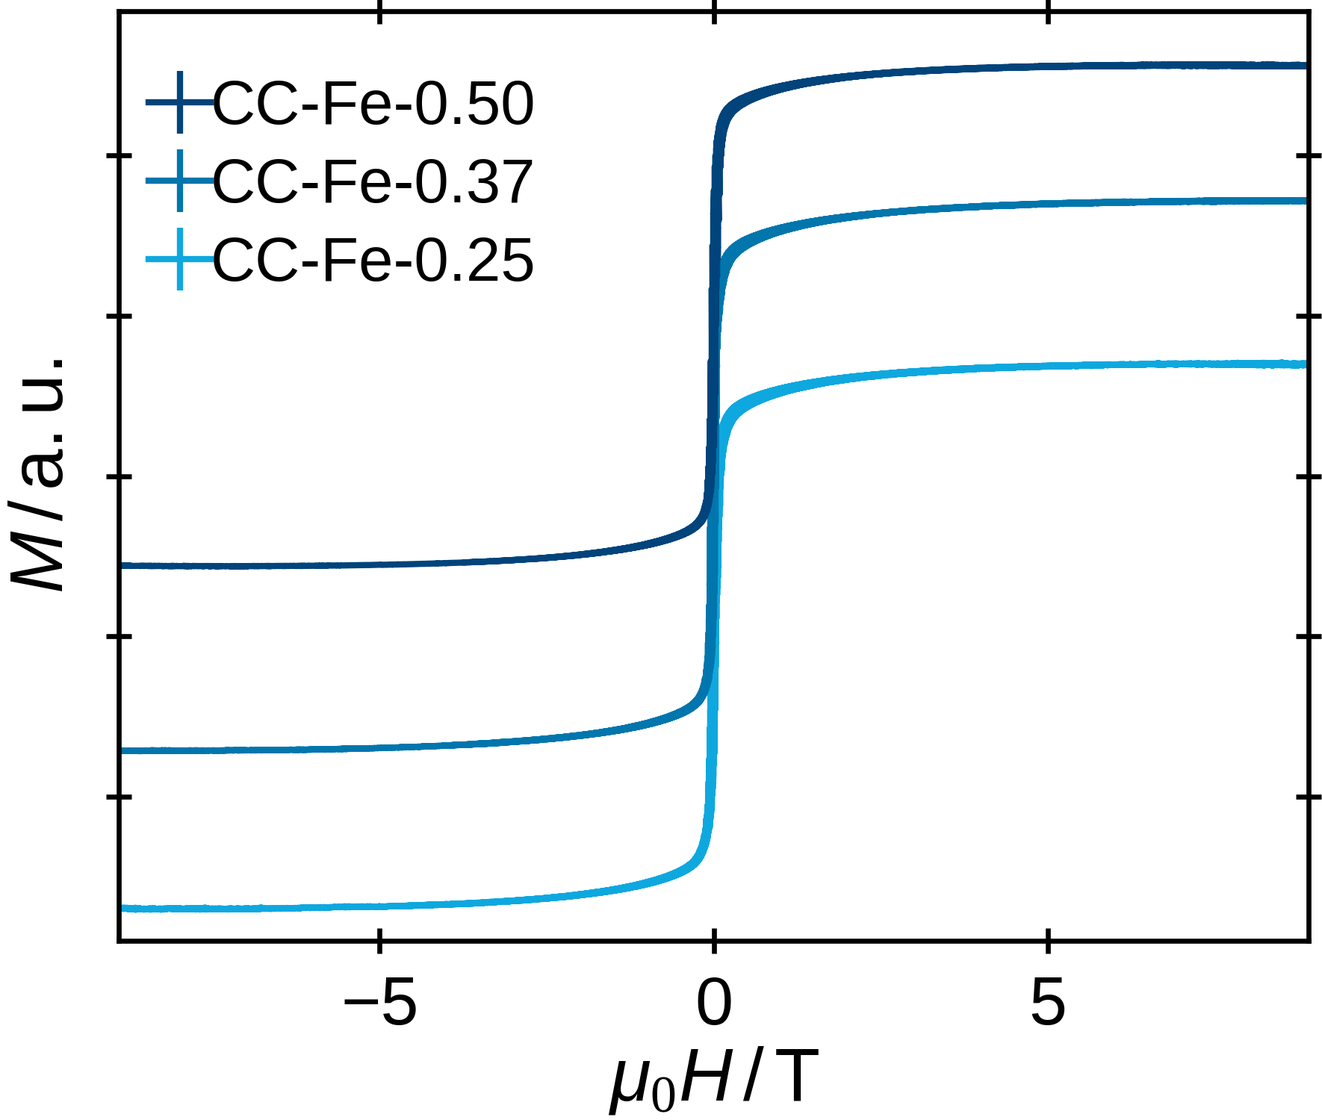
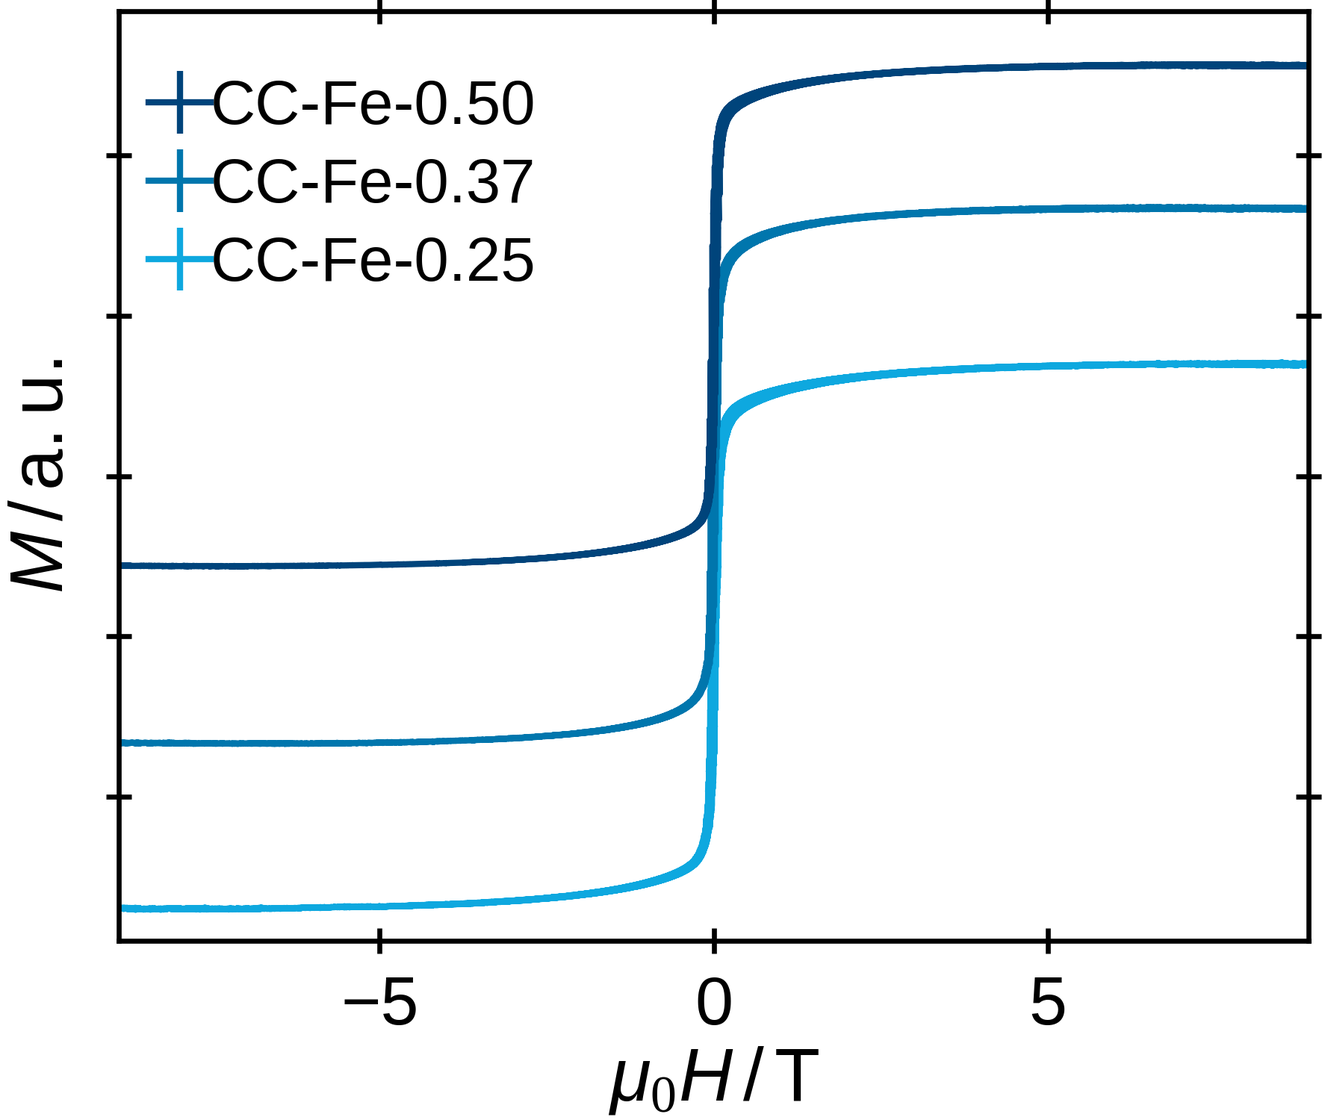
Bisschen mehr zu CC

Changed region(s): [[0.6215, 0.1533, 0.9944, 0.2147], [0.0932, 0.644, 0.4661, 0.6747], [0.4972, 0.6133, 0.5282, 0.644]]

diff --git a/chapters/colloidalCrystals/colloidalCrystals/pnr/pnr.tex b/chapters/colloidalCrystals/colloidalCrystals/pnr/pnr.tex
@@ -11,7 +11,7 @@
   \end{figure}
 
   To study the magnetic structure of the colloidal crystals, polarized neutron reflectivity was measured at the MARIA instrument at MLZ (\refsec{ch:lss:maria}).
-  For each sample a and measurement a reflectivity map is obtained for $R^{+}$ and $R^{-}$, which is exemplary shown for the measurement obtained in remanence after field-cooling CC-Fe-0.37 to $10 \unit{K}$ at $1.08\unit{T}$ and measuring at the guide field of $0.9 \unit{mT}$ in \reffig{fig:colloidalCrystals:pnrRemanenceMaps}.
+  For each sample and measurement a reflectivity map is obtained for $R^{+}$ and $R^{-}$, which is exemplary shown for the measurement obtained in remanence after field-cooling CC-Fe-0.37 to $10 \unit{K}$ at $1.08\unit{T}$ and measuring at the guide field of $0.9 \unit{mT}$ in \reffig{fig:colloidalCrystals:pnrRemanenceMaps}.
   The reflectivity map are similar in nature to the ones obtained for XRR in \refsec{sec:colloidalCrystals:layers:xrr} and all show as main feature the specular line with high intensity and an additional Bragg sheets in the off-specular region around $\alpha_i + \alpha_o \eq 2.2^\circ$.
   In the case of the remanent measurement after field cooling, a difference in intensity is already visible in the reflectivity map, where the reflectivity is more intense in the $R^{+}$ than in the $R^{-}$ case, which follows from the magnetized state of the sample.
 
@@ -24,11 +24,20 @@
 
   The reduced reflectivities, extracted from each intensity map, are shown for CC-Fe-0.37 in \reffig{fig:colloidalCrystals:pnrCCFe37} for the measurements performed after zero-field cooling and field-cooling.
   In the saturated state both the zero-field cooled and the field cooled measurement show a visible splitting of the two channels due to the magnetization of the sample.
-  At remanence, this is still clearly visible for the field cooled case, as was also apparent in the reflectivity map, but it less pronounced in the zero-field cooled reflectivity at remanence.
+  At remanence, this is still clearly visible for the field cooled case, as was also apparent in the reflectivity map, but is less pronounced in the zero-field cooled reflectivity at remanence.
   The same tendential behaviour is observable in the case of the sample CC-Fe-0.25 and for CC-Fe-0.50 in \reffig{fig:colloidalCrystals:pnrCCFe2550}.
-  It is visible in the reflectivity of CC-Fe-0.50 that analogue to it's XRR measurement in \refsec{sec:colloidalCrystals:layers:xrr} the critical edge is less well-defined for this sample in comparison to CC-Fe-0.25 and CC-Fe-0.37.
+
+  It is visible in the reflectivity of CC-Fe-0.50 that analogue to it's XRR measurement in \refsec{sec:colloidalCrystals:layers:xrr} the critical edge reduced to a lower scattering angle for this sample in comparison to CC-Fe-0.25 and CC-Fe-0.37.
   Observing this in the case of the X-ray experiment and neutron experiment reinforces that this observation is a feature from the sample and not possibly an artifact from a malfunction during the measurement procedure.
   It is connected to the large thickness of the sample, and suggests a lower average scattering length density in comparison to the silicon layer, as the magnitude of the critical edge is directly proportional to the scattering length density.
+
+  The correlation peak around $0.5 \unit{nm^{-1}}$ and $1 \unit{nm^{-1}}$ in each measurement corresponds with $2 \pi / \Delta q \approx 12.6 \unit{nm}$ to the length scale of the nanocube size.
+  Additional features from the layered structure or the total sample thickness, by the means of Kiessig fringes, are not visible within the datasets, which reinforces the assumption that still the samples are too rough on the surface.
+  A detailed modeling of the scattering length density profile has not been performed within the scope of this thesis and might be considered as highly ambiguous due to the low number of features in the reflectivity but the complex three-dimensional structure of the samples.
+
+  Qualitatively it is visible that a splitting remains in the remanent state, which is stronger for the field cooled case in direct comparison to the zero-field cooled case.
+  This connect to the comparison of the hysteresis curve of the samples after zero-field and field cooling in \refsec{sec:colloidalCrystals:vsm}, where an exchange bias effect is visible that is argued to be a property of the core-shell nanocubes.
+  Signatures for emergent dipolar interaction effects from the qualitative comparison of the three samples are not directly observable from the obtained polarized neutron reflectometry data.
 
 
   \begin{figure}[tb]

diff --git a/chapters/colloidalCrystals/colloidalCrystals/vsm/vsm.tex b/chapters/colloidalCrystals/colloidalCrystals/vsm/vsm.tex
@@ -25,7 +25,7 @@
         & $\bar{\chi} \, / \unit{memu \, T ^{-1} g^{-1}}$ \\
         \hline
         \rule{0pt}{2ex} CC-Fe-0.25    & $1.8480(4)$   & $-16.18(6)$ & $60.25(1)$  & $-0.528(2)$\\
-        \rule{0pt}{2ex} CC-Fe-0.37    & $1.4770(3)$   & $-8.06(4)$  & $84.35(2)$  & $-0.460(2)$\\
+        \rule{0pt}{2ex} CC-Fe-0.37    & $1.5599(5)$   & $-5.46(7)$  & $89.09(3)$  & $-0.312(4)$\\
         \rule{0pt}{2ex} CC-Fe-0.50    & $4.4333(7)$   & $6.68(9)$   & $126.30(2)$ & $0.190(3)$\\
         \hline
       \end{tabular}
@@ -78,15 +78,14 @@
     \begin{figure}[tb]
       \centering
       \includegraphics{colloidalCrystals_PPMS_10K_allSamples}
-      % \includegraphics{colloidalCrystals_PPMS_10K_allSamplesShifted}
-      \caption{\label{fig:colloidalCrystals:10KVSM}Low temperature field-dependent magnetization of the colloidal crystals measured at $10 \unit{K}$. CC-Fe-0.25 and CC-Fe-0.50 are measured after zero-field cooling and CC-Fe-0.37 after cooling in a $10 \unit{mT}$ field.}
+      \includegraphics{colloidalCrystals_PPMS_10K_CC-Fe-0-37_EB}
+      \caption{\label{fig:colloidalCrystals:10KVSM}Low temperature field-dependent magnetization of the colloidal crystals measured at $10 \unit{K}$. The colloidal crystals are all measured after zero-field cooling (left). Furthermore, the effect of field cooling the sample in a strong magnetic field of $4 \unit{T}$ on the hysteresis is shown for CC-Fe-0.37 (right).}
     \end{figure}
-    The samples CC-Fe-0.25 and CC-Fe-0.50 were both measured field-dependent at $10 \unit{K}$ after zero-field cooling. The data is rescaled as determined by the room temperature measurement and shown in \reffig{fig:colloidalCrystals:10KVSM}.
+    The samples CC-Fe-0.25, CC-Fe-0.37 and CC-Fe-0.50 were both measured field-dependent at $10 \unit{K}$ after zero-field cooling. The data is rescaled as determined by the room temperature measurement and shown in \reffig{fig:colloidalCrystals:10KVSM}.
     It can be seen that at low magnetic fields, a close match in the coercive field is given, which is observed to be $35(1) \unit{mT}$.
-    At larger fields the two curves separate however and the thin sample CC-Fe-0.25 reaches a higher spontaneous magnetization in comparison to the thick CC-Fe-0.50 sample.
-
-    The sample CC-Fe-0.37 on the other hand was measured after cooling in a $10 \unit{mT}$ field and shows a small negative exchange-bias shift in the order of $7(1) \unit{mT}$.
-    A shift should be expected from the w\"ustite-magnetite core-shell structure of the nanocubes as it is also commonly observed in literature from magnetization measurements of similarly prepared nanocubes in a frozen dispersion \cite{Wetterskog_2013_Anoma}.
-    The spontaneous magnetization of the sample is otherwise analogue to the CC-Fe-0.25 sample
-    A measurement of the hysteresis of CC-Fe-0.37 after zero-field cooling for a more direct comparison to the other two colloidal crystals has not been performed within the scope of this thesis.
+    At larger fields the curves separate however and the thin sample CC-Fe-0.25 reaches a higher spontaneous magnetization in comparison to the thicker samples, where the lowest saturation value is observed for the CC-Fe-0.50 sample.
+    Furthermore, it is studied which effect the application of a magnetic field during the cool down has on the example of the magnetization of CC-Fe-0.37.
+    After cooling in a $4 \unit{T}$ field, a negative exchange-bias shift in the order of $5(1) \unit{mT}$ can be seen, as well as an increase of the remanent magnetization by $25 \%$.
+    The saturating magnetization of the sample is otherwise analogue to the zero-field cooled hysteresis.
+    The exchange-bias effect is connected to the core-shell structure of the iron cubes as it is also commonly observed in literature for iron oxide nanocubes prepared from iron oleates \cite{Wetterskog_2013_Anoma}.
 \end{document}

diff --git a/data/colloidalCrystals/colloidalCrystals/compareVSMEB10K/THESIS_VSM10K.py b/data/colloidalCrystals/colloidalCrystals/compareVSMEB10K/THESIS_VSM10K.py
@@ -13,8 +13,8 @@ from matplotlib.legend_handler import HandlerTuple
 from PlottingTemplates.saxssanssanspol import color_variant
 
 chapter = 'colloidalCrystals'
-sample_name = 'allSamples'
-savefile = f'{chapter}_PPMS_300K_{sample_name}'
+sample_name = 'CC-Fe-0-37_EB'
+savefile = f'{chapter}_PPMS_10K_{sample_name}'
 
 
 def load_file(datafile, sf=1, chi=0):
@@ -23,9 +23,8 @@ def load_file(datafile, sf=1, chi=0):
   B1, M1, sM1 = data.getData()
   return B1, (M1-chi*B1)*sf, sM1*sf
 
-B_1, M_1, sM_1 = load_file('../CC_Fe_0.25/PPMS/rescale/CC_Fe_0-25_300K_rescaled.xye')
-B_2, M_2, sM_2 = load_file('../CC_Fe_0.37/PPMS/rescale/CC_Fe_0-37_300K_rescaled.xye')#, 1.1)
-B_3, M_3, sM_3 = load_file('../CC_Fe_0.50/PPMS/rescale/CC_Fe_0-50_300K_rescaled.xye')#, 1, 5)
+B_1, M_1, sM_1 = load_file('../CC_Fe_0.37/PPMS/rescale/CC_Fe_0-37_10K_rescaled.xye')
+B_2, M_2, sM_2 = load_file('../CC_Fe_0.37/PPMS/rescale/CC_Fe_0-37_10K_FC4T_rescaled.xye')
 
 shift = 0
 
@@ -33,43 +32,30 @@ fig = plt.figure()
 left, bottom = 0.16, 0.16
 ax = fig.add_axes([left,bottom, 1-left-0.01, 1-bottom-0.01])
 ax_inset = fig.add_axes([0.7,bottom+0.1, 0.25, 0.3])
-ax.axhline(0, color='lightgray', marker='None', zorder=0)
-ax.axvline(0, color='lightgray', marker='None', zorder=0)
 
 ax.errorbar(B_1, M_1, sM_1, linestyle='-', marker='None',
   capsize=0, markersize=1, zorder=1,
-  color=color_variant('#0EA8DF', 0), label='CC-Fe-0.25')
+  color=color_variant('#0EA8DF', 0), label='CC-Fe-0.37 ZFC')
 
 ax.errorbar(B_2, M_2+shift, sM_2, linestyle='-', marker='None',
   capsize=0, markersize=1, zorder=1,
-  color=color_variant('#0EA8DF', -100), label='CC-Fe-0.37')
-
-ax.errorbar(B_3, M_3+2*shift, sM_3, linestyle='-', marker='None',
-  capsize=0, markersize=1, zorder=1,
-  color=color_variant('#0EA8DF', -200), label='CC-Fe-0.50')
-
+  color=color_variant('#0EA8DF', -100), label='CC-Fe-0.37 FC')
 
 ax_inset.axhline(0, color='lightgray', marker='None', zorder=0)
 ax_inset.axvline(0, color='lightgray', marker='None', zorder=0)
 
 ax_inset.errorbar(B_1, M_1, sM_1, linestyle='-', marker='None',
   capsize=0, markersize=1, zorder=1,
-  color=color_variant('#0EA8DF', 0), label='CC-Fe-0.25')
+  color=color_variant('#0EA8DF', 0), label='CC-Fe-0.37 ZFC')
 
 ax_inset.errorbar(B_2, M_2+shift, sM_2, linestyle='-', marker='None',
   capsize=0, markersize=1, zorder=1,
-  color=color_variant('#0EA8DF', -100), label='CC-Fe-0.37')
-
-ax_inset.errorbar(B_3, M_3+2*shift, sM_3, linestyle='-', marker='None',
-  capsize=0, markersize=1, zorder=1,
-  color=color_variant('#0EA8DF', -200), label='CC-Fe-0.50')
+  color=color_variant('#0EA8DF', -100), label='CC-Fe-0.37 FC')
 
 ax_inset.set_xlim(-0.10, 0.10)
 ax_inset.set_ylim(-150, 150)
 ax_inset.tick_params(axis='both', which='major', labelsize=8)
 ax_inset.tick_params(axis='both', which='minor', labelsize=8)
-
-
 
 handles, labels = ax.get_legend_handles_labels()
 
@@ -77,15 +63,19 @@ def add_legend(handle, title, height):
   legend = ax.legend([handle],[title],
     handler_map={tuple: HandlerTuple(ndivide=None)},
     fontsize=10,
-    handletextpad=0,
+    # handletextpad=0,
     loc='upper left',
     bbox_to_anchor = [0.14, height],
     bbox_transform=fig.transFigure)
   return legend
 
-legend1 = add_legend(handles[0], 'CC-Fe-0.25', 0.84)
-legend2 = add_legend(handles[1], 'CC-Fe-0.37', 0.91)
-legend3 = add_legend(handles[2], 'CC-Fe-0.50', 0.98)
+ax.text(0.03, 0.93, 'CC-Fe-0.37',
+  verticalalignment='top',
+  horizontalalignment='left',
+  fontsize=10,
+  transform = ax.transAxes)
+legend1 = add_legend(handles[0], 'ZFC', 0.84)
+legend2 = add_legend(handles[1], 'FC @ 4T', 0.91)
 
 ax.add_artist(legend1)
 ax.add_artist(legend2)
@@ -99,4 +89,4 @@ ax.set_ylim(-190, 190)
 plt.savefig(cwd + '/' + savefile)
 plt.savefig(thesisimgs + '/' + savefile)
 
-# plt.show()
+plt.show()

diff --git a/chapters/looselyPackedNS/intro/intro.tex b/chapters/looselyPackedNS/intro/intro.tex
@@ -7,16 +7,17 @@
   For this purpose, a common choice to form packed structures of nanoparticles is the bottom-up process of self-assembly, where the nanoparticles spontaneously organize due to direct specific interactions and/or indirect through the environment \cite{Grzelczak_2010_direc, Whitesides_2002_Selfa}.
   This provides a large number of variety to direct the self-assembly process \ie by varying the material, by varying the deposition method, by chemically modifying the surface of the nanoparticles or by applying electric or magnetic fields during the process.
 
-  In this work, magnetic nanospheres of iron oxide with an oleic acid surface are studied, as well as the self-assembled packings obtained by spin-coating the studied nanoparticles from dispersion.
+  In this work, magnetic nanospheres of iron oxide with an oleic acid surface are studied, as well as the self-assembled packing obtained by spin-coating the studied nanoparticles from dispersion.
   Iron oxide nanoparticles are well studied in recent literature, due to their easy availability and their potential in medical applications, and can be synthesized by multiple routes \cite{Laurent_2008_Magne}.
   The synthesis from iron oleate \cite{Hyeon_2003_Chemi}, is especially well suited to obtain nanoparticles in the order of $10 \unit{nm}$ with a small size distribution \cite{Wetterskog_2014_Preci}.
-  The iron oxide phases of maghemite ($\gamma-\ch{Fe2O3}$) and magnetite $\ch{Fe3O4}$) furthermore show a strong ferrimagnetism and are therefore well suited when the nanoparticles are used as probes to study nanoparticular interaction mediated to dipolar forces.
+  The iron oxide phases of maghemite ($\gamma-\ch{Fe2O3}$) and magnetite ($\ch{Fe3O4}$) furthermore show a strong ferrimagnetism and are therefore well suited when the nanoparticles are used as probes to study nanoparticular interaction through dipolar forces.
 
   Wetterskog \etal published a study on the phase, oxidation and the thereby peculiar magnetic properties of iron oxide nanoparticles synthesized from iron oleate \cite{Wetterskog_2013_Anoma}.
   Similar to earlier studies \cite{Hai_2010_Sizec, Chen_2010_Chara}, they find that in the synthesis a w\"ustite core is formed first, and a shell with a phase between magnetite and maghemite, summarized as \ch{Fe_{3-$\delta$}O4}, oxidizes afterwards from the w\"ustite structure.
   Due to multiple possible ways the rock salt structure of w\"ustite can transform to the inverse spinell of \ch{Fe_{3-$\delta$}O4}, antiphase boundaries are formed throughout the nanoparticle as defects.
   These defects are not removed without a significant diffusion of cations \cite{Margulies_1997_Origi} and thus high annealing temperatures.
   Wetterskog \etal then proceeds to shows that the antiphase boundaries are the source of a persisting reduced magnetization, as well as an exchange-bias effect even in single-phased nanoparticles, as to why the magnetism of such nanoparticles appears to be anomalous.
+  \\
 
   The self-assembly by spin-coating is known to be a quick method to obtain thin layers that have a low surface roughness \cite{Xu_2012_Trans}.
   Spin-coated iron oxide nanospheres have been recently studied in literature by Mishra \etal \cite{Mishra_2012_Selfa} by GISAXS and X-ray and polarized neutron reflectivity, for commercially obtained spheres with $20 \unit{nm}$ diameter.

diff --git a/chapters/looselyPackedNS/spinCoatedLayer/xrr/xrr.tex b/chapters/looselyPackedNS/spinCoatedLayer/xrr/xrr.tex
@@ -34,7 +34,7 @@
 
   \begin{table}[!htbp]
     \centering
-    \caption{\label{tab:looselyPackedNP:layers:reflectivity}Parameters for the layer of multiple nanospheres shown in \reffig{fig:looselyPackedNP:layer:reflectivity}. The parameters $\eta$ are the two dimensional packing density for each layer and $\Delta z$ are the shifts of the layer center from the pitch $\sqrt{8/3} (R+D_\mathrm{OA}$). The other parameters are the thickness of the spacer layer on the substrate $d_\mathrm{spacer}$, its SLD $\rho_\mathrm{spacer}$, the substrate roughness $\sigma$, the rate of roughness increase with layer height $\Delta \sigma$, and the wavelength spread of the instrument $\sigma_\lambda / \lambda$. The nanosphere parameters are fixed from SAS.}
+    \caption{\label{tab:looselyPackedNP:layers:reflectivity}Parameters for the layer of multiple nanospheres shown in \reffig{fig:looselyPackedNP:layer:reflectivity}. The parameters $\eta$ are the two dimensional packing density for each layer and $\Delta z$ are the shifts of the layer center from the pitch $\sqrt{8/3} (R+D_\mathrm{OA}$). The other parameters are the thickness of the spacer layer on the substrate $d_\mathrm{spacer}$, its SLD $\rho_\mathrm{spacer}$, the substrate roughness $\sigma$, the rate of roughness increase with layer height $\Delta \sigma$, and the wavelength spread of the instrument $\sigma_\lambda / \lambda$. The nanosphere parameters are fixed as determined from SAS.}
     \begin{tabular}{ c | l | l | l | l}
       \rule{0pt}{2ex} \textbf{Reflectometry}  & \multicolumn{2}{c}{\textbf{SC-IOS-11}} & \multicolumn{2}{c}{\textbf{SC-IOS-7}} \\
       \rule{0pt}{2ex}                   & XRR       & NR        & XRR       & NR \\
@@ -68,10 +68,10 @@
        $\sigma_\lambda / \lambda\, / \unit{\%}$                     & $2.1(1)$  & $0.21$    & $2.1(1)$  & $0.21$\\
        $\sigma_\theta \, / \unit{mrad}$                             & $0$       & $0.3$     & $0$       & $0.3$ \\
        \hline
-       $R               \, / \unit{nm}$                               & \multicolumn{2}{c}{$3.8$}  & \multicolumn{2}{c}{$0$} \\
-       $D_\mathrm{shell}\, / \unit{nm}$                               & \multicolumn{2}{c}{$1.6$}  & \multicolumn{2}{c}{$3.54$} \\
-       $D_\mathrm{OA}   \, / \unit{nm}$                               & \multicolumn{2}{c}{$1.82$} & \multicolumn{2}{c}{$1.69$} \\
-       $\sigma_R        \, / \unit{\%}$                               & \multicolumn{2}{c}{$5.45$} & \multicolumn{2}{c}{$7.52$} \\
+      %  $R               \, / \unit{nm}$                               & \multicolumn{2}{c}{$3.8$}  & \multicolumn{2}{c}{$0$} \\
+      %  $D_\mathrm{shell}\, / \unit{nm}$                               & \multicolumn{2}{c}{$1.6$}  & \multicolumn{2}{c}{$3.54$} \\
+      %  $D_\mathrm{OA}   \, / \unit{nm}$                               & \multicolumn{2}{c}{$1.82$} & \multicolumn{2}{c}{$1.69$} \\
+      %  $\sigma_R        \, / \unit{\%}$                               & \multicolumn{2}{c}{$5.45$} & \multicolumn{2}{c}{$7.52$} \\
        $\rho_\mathrm{core}\, / \unit{10^{-6} \angstrom^{-2}}      $   & $44.3$  & $8.340$ & $44.3$ & $8.340$\\
        $\rho_\mathrm{shell}\, / \unit{10^{-6} \angstrom^{-2}}      $  & $40.5$  & $7.000$ & $40.5$ & $7.000$\\
        $\rho_\mathrm{OA}\, / \unit{10^{-6} \angstrom^{-2}}     $      & $8.52$  & $0.078$ & $8.52$ & $0.078$\\

diff --git a/data/colloidalCrystals/colloidalCrystals/compareVSMZFCFC/THESIS_ZFCFC.py b/data/colloidalCrystals/colloidalCrystals/compareVSMZFCFC/THESIS_ZFCFC.py
@@ -46,11 +46,11 @@ ax = fig.add_axes([left,bottom, 1-left-0.01, 1-bottom-0.01])
 ax.errorbar(T_zfc_1, M_zfc_1, sM_zfc_1, linestyle='-', capsize=0, marker='None', markersize=1, zorder=1, color=color_variant('#0EA8DF', 0), label='CC-Fe-0.25 ZFCW')
 ax.errorbar(T_fcw_1, M_fcw_1+shift_fc_base, sM_fcw_1, linestyle='-', capsize=0, marker='None', markersize=1, zorder=1, color=color_variant('#EE292F', 0), label='CC-Fe-0.25 FCw')
 
-ax.errorbar(T_zfc_2, M_zfc_2+shift, sM_zfc_2, linestyle='-', capsize=0, marker='None', markersize=1, zorder=1, color=color_variant('#0EA8DF', -50), label='CC-Fe-0.37 ZFCw')
-ax.errorbar(T_fcw_2, M_fcw_2+shift_fc_base+shift, sM_fcw_2, linestyle='-', capsize=0, marker='None', markersize=1, zorder=1, color=color_variant('#EE292F', -50), label='CC-Fe-0.37 FCw')
+ax.errorbar(T_zfc_2, M_zfc_2+shift, sM_zfc_2, linestyle='-', capsize=0, marker='None', markersize=1, zorder=1, color=color_variant('#0EA8DF', -100), label='CC-Fe-0.37 ZFCw')
+ax.errorbar(T_fcw_2, M_fcw_2+shift_fc_base+shift, sM_fcw_2, linestyle='-', capsize=0, marker='None', markersize=1, zorder=1, color=color_variant('#EE292F', -100), label='CC-Fe-0.37 FCw')
 
-ax.errorbar(T_zfc_3, M_zfc_3+2*shift, sM_zfc_3, linestyle='-', capsize=0, marker='None', markersize=1, zorder=1, color=color_variant('#0EA8DF', -100), label='CC-Fe-0.50 ZFCw')
-ax.errorbar(T_fcw_3, M_fcw_3+shift_fc_base+2*shift, sM_fcw_3, linestyle='-', capsize=0, marker='None', markersize=1, zorder=1, color=color_variant('#EE292F', -100), label='CC-Fe-0.50 FCw')
+ax.errorbar(T_zfc_3, M_zfc_3+2*shift, sM_zfc_3, linestyle='-', capsize=0, marker='None', markersize=1, zorder=1, color=color_variant('#0EA8DF', -200), label='CC-Fe-0.50 ZFCw')
+ax.errorbar(T_fcw_3, M_fcw_3+shift_fc_base+2*shift, sM_fcw_3, linestyle='-', capsize=0, marker='None', markersize=1, zorder=1, color=color_variant('#EE292F', -200), label='CC-Fe-0.50 FCw')
 
 
 handles, labels = ax.get_legend_handles_labels()

diff --git a/chapters/looselyPackedNS/experimentalMethods/experimentalMethods.tex b/chapters/looselyPackedNS/experimentalMethods/experimentalMethods.tex
@@ -8,9 +8,9 @@
 
   Two nanoparticle batches, IOS-11 and IOS-7, were obtained in a concentrated dispersion in toluene and are used without further chemical modification.
   Furthermore, the collaboration provided spin-coated layers of said nanoparticles for both batches.
-  Spin-coated layers are provided, as well as organic-inorganic multi layers consisting of 8 subsequent layers of spin-coated nanospheres on top of spin-coated PMMA.
+  Spin-coated single layers are provided, as well as organic-inorganic multilayers consisting of 8 subsequent layers of spin-coated nanospheres on top of spin-coated PMMA.
   For each nanoparticle, two multilayers with varied PMMA thickness are provided.
-  The spin-coated layers are referenced as SC-IOS-7 and SC-IOS-11 respectively, where as the multilayers are referenced in the pattern 8BL-$X$-IOS-$Y$, where $X$ is an estimate of the PMMA layer thickness and $Y$ the respective nanoparticle size.
+  The spin-coated layers are referenced as SC-IOS-7 and SC-IOS-11 respectively, where as the multilayers are referenced in the pattern 8BL-$x$-IOS-$y$, where $x$ is an estimate of the PMMA layer thickness and $y$ the respective nanoparticle size.
 
   The samples are summarized in \reftab{tab:looselyPackedNS:expMethods:samples}.
   \begin{table}[!htbp]
@@ -32,7 +32,7 @@
     \end{tabular}
   \end{table}
 
-  In the following the experimental methods for the characterization of the nanospheres, as well as the single layers and multi layers are described.
+  In the following the experimental methods for the characterization of the nanospheres, as well as the single layers and multilayers are described.
 
   \subsection{Nanoparticle Characterization}
     \subfile{\thisPath/nanoparticleCharacterization/nanoparticleCharacterization}

diff --git a/data/colloidalCrystals/colloidalCrystals/compareVSM10K/THESIS_VSM10K.py b/data/colloidalCrystals/colloidalCrystals/compareVSM10K/THESIS_VSM10K.py
@@ -40,11 +40,11 @@ ax.errorbar(B_1, M_1, sM_1, linestyle='-', marker='None',
 
 ax.errorbar(B_2, M_2+shift, sM_2, linestyle='-', marker='None',
   capsize=0, markersize=1, zorder=1,
-  color=color_variant('#0EA8DF', -50), label='CC-Fe-0.37')
+  color=color_variant('#0EA8DF', -100), label='CC-Fe-0.37')
 
 ax.errorbar(B_3, M_3+2*shift, sM_3, linestyle='-', marker='None',
   capsize=0, markersize=1, zorder=1,
-  color=color_variant('#0EA8DF', -100), label='CC-Fe-0.50')
+  color=color_variant('#0EA8DF', -200), label='CC-Fe-0.50')
 
 
 ax_inset.axhline(0, color='lightgray', marker='None', zorder=0)
@@ -56,11 +56,11 @@ ax_inset.errorbar(B_1, M_1, sM_1, linestyle='-', marker='None',
 
 ax_inset.errorbar(B_2, M_2+shift, sM_2, linestyle='-', marker='None',
   capsize=0, markersize=1, zorder=1,
-  color=color_variant('#0EA8DF', -50), label='CC-Fe-0.37')
+  color=color_variant('#0EA8DF', -100), label='CC-Fe-0.37')
 
 ax_inset.errorbar(B_3, M_3+2*shift, sM_3, linestyle='-', marker='None',
   capsize=0, markersize=1, zorder=1,
-  color=color_variant('#0EA8DF', -100), label='CC-Fe-0.50')
+  color=color_variant('#0EA8DF', -200), label='CC-Fe-0.50')
 
 ax_inset.set_xlim(-0.10, 0.10)
 ax_inset.set_ylim(-150, 150)
